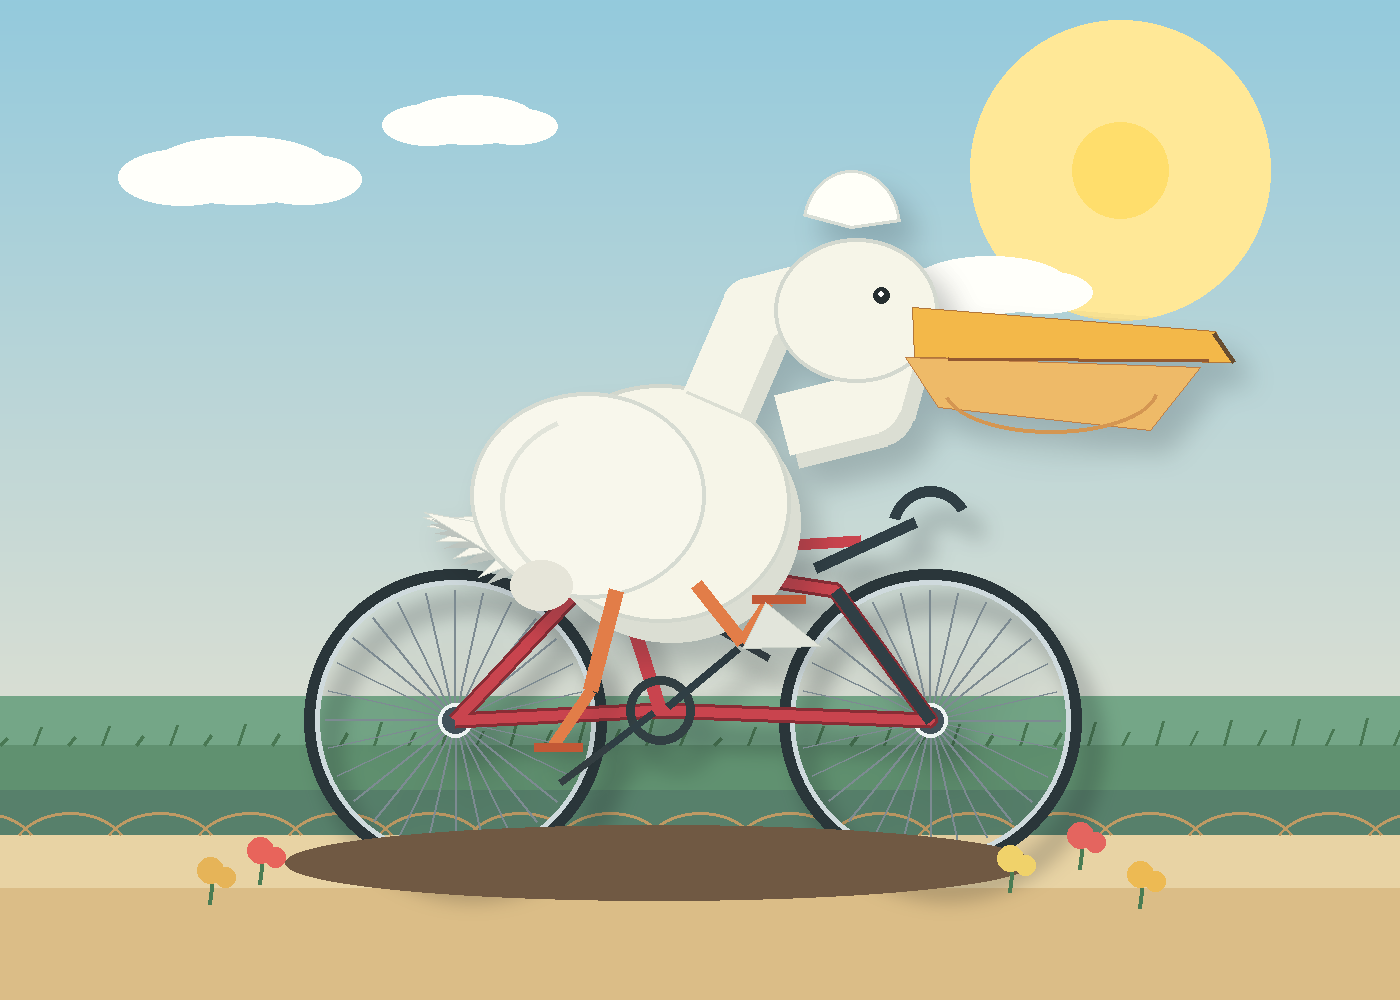
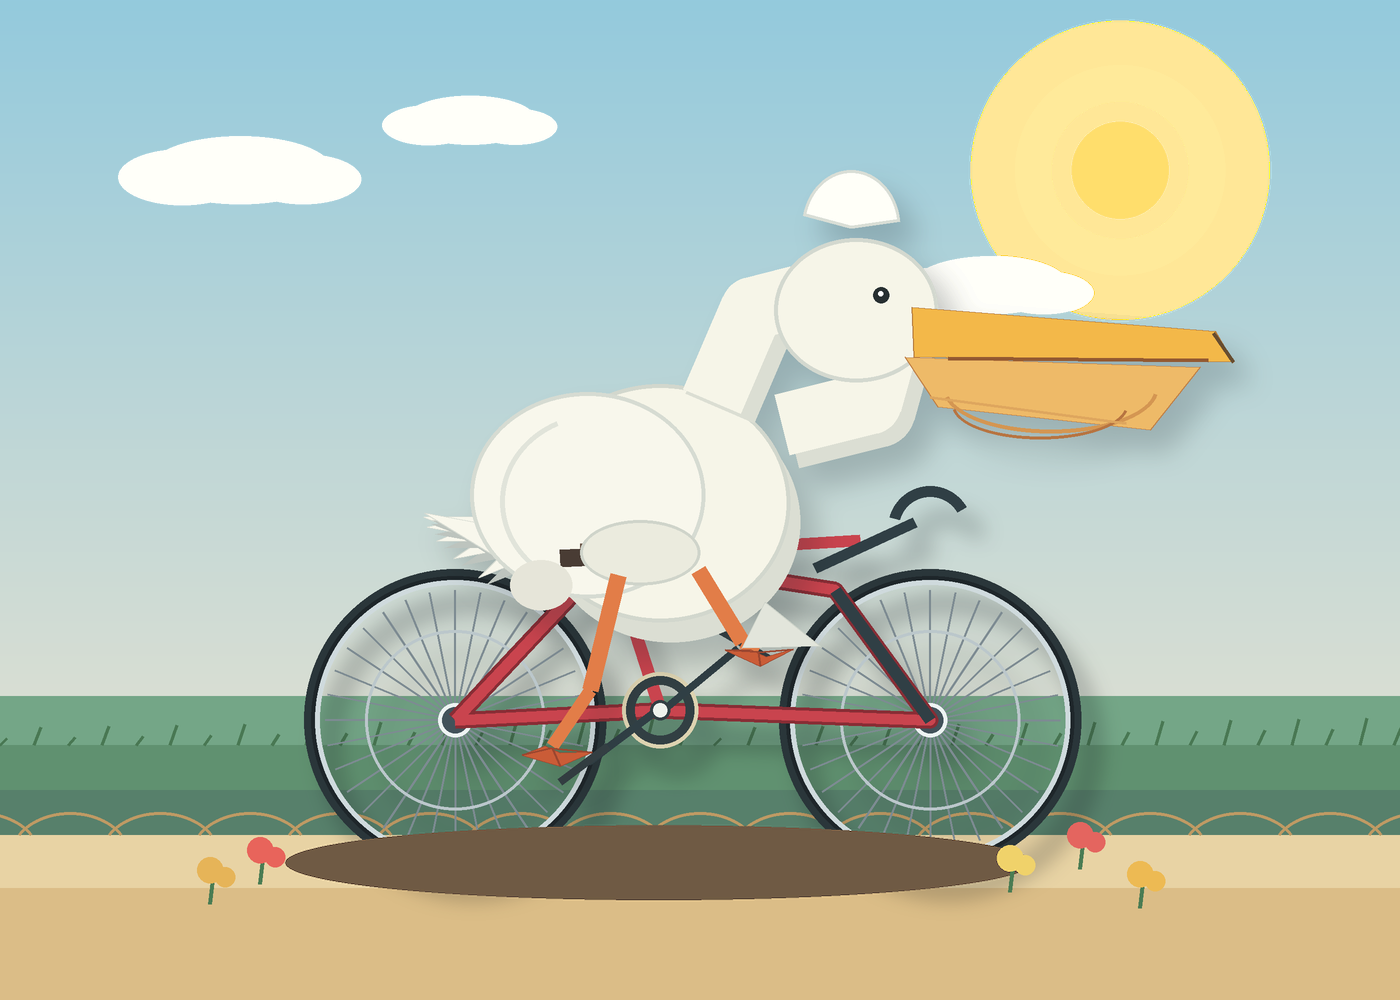
Polish pelican bike rendering

diff --git a/main.py b/main.py
@@ -2,13 +2,14 @@ from __future__ import annotations
 
 import math
 from pathlib import Path
-from typing import Iterable, Sequence
+from typing import Sequence
 
 from PIL import Image, ImageDraw, ImageFilter
 
 
 WIDTH = 1400
 HEIGHT = 1000
+SUPERSAMPLE = 2
 OUTPUT_PATH = Path("output/pelican_bike.png")
 
 
@@ -16,21 +17,110 @@ Color = tuple[int, int, int] | tuple[int, int, int, int]
 Point = tuple[float, float]
 
 
+class ScaledDraw:
+    """Tiny adapter that keeps drawing code in design pixels while rendering larger."""
+
+    def __init__(self, draw: ImageDraw.ImageDraw, scale: int) -> None:
+        self.draw = draw
+        self.scale = scale
+
+    def _n(self, value: float) -> int:
+        return int(round(value * self.scale))
+
+    def _xy(self, xy: Sequence[float] | Sequence[Point]) -> tuple[int, ...] | list[tuple[int, int]]:
+        if xy and isinstance(xy[0], (tuple, list)):  # type: ignore[index]
+            return [(self._n(x), self._n(y)) for x, y in xy]  # type: ignore[misc]
+        return tuple(self._n(value) for value in xy)  # type: ignore[arg-type]
+
+    def _width(self, width: int) -> int:
+        return max(1, self._n(width))
+
+    def line(
+        self,
+        xy: Sequence[float] | Sequence[Point],
+        fill: Color,
+        width: int = 1,
+        joint: str | None = None,
+    ) -> None:
+        kwargs = {"fill": fill, "width": self._width(width)}
+        if joint is not None:
+            kwargs["joint"] = joint
+        self.draw.line(self._xy(xy), **kwargs)
+
+    def ellipse(
+        self,
+        xy: Sequence[float],
+        fill: Color | None = None,
+        outline: Color | None = None,
+        width: int = 1,
+    ) -> None:
+        self.draw.ellipse(self._xy(xy), fill=fill, outline=outline, width=self._width(width))
+
+    def rectangle(
+        self,
+        xy: Sequence[float],
+        fill: Color | None = None,
+        outline: Color | None = None,
+        width: int = 1,
+    ) -> None:
+        self.draw.rectangle(self._xy(xy), fill=fill, outline=outline, width=self._width(width))
+
+    def polygon(
+        self,
+        xy: Sequence[Point],
+        fill: Color | None = None,
+        outline: Color | None = None,
+        width: int = 1,
+    ) -> None:
+        points = self._xy(xy)
+        self.draw.polygon(points, fill=fill)
+        if outline is not None:
+            self.draw.line([*points, points[0]], fill=outline, width=self._width(width), joint="curve")
+
+    def arc(
+        self,
+        xy: Sequence[float],
+        start: float,
+        end: float,
+        fill: Color,
+        width: int = 1,
+    ) -> None:
+        self.draw.arc(self._xy(xy), start, end, fill=fill, width=self._width(width))
+
+    def pieslice(
+        self,
+        xy: Sequence[float],
+        start: float,
+        end: float,
+        fill: Color | None = None,
+        outline: Color | None = None,
+        width: int = 1,
+    ) -> None:
+        self.draw.pieslice(self._xy(xy), start, end, fill=fill, outline=outline, width=self._width(width))
+
+
 def ellipse_bbox(cx: float, cy: float, rx: float, ry: float) -> tuple[float, float, float, float]:
     return (cx - rx, cy - ry, cx + rx, cy + ry)
 
 
-def add_shadow(base: Image.Image, shape: Image.Image, blur: int, offset: tuple[int, int], opacity: int) -> None:
-    alpha = shape.getchannel("A").filter(ImageFilter.GaussianBlur(blur))
+def add_shadow(
+    base: Image.Image,
+    shape: Image.Image,
+    blur: int,
+    offset: tuple[int, int],
+    opacity: int,
+    scale: int,
+) -> None:
+    alpha = shape.getchannel("A").filter(ImageFilter.GaussianBlur(blur * scale))
     shadow = Image.new("RGBA", base.size, (31, 40, 46, opacity))
     shifted = Image.new("RGBA", base.size, (0, 0, 0, 0))
-    shifted.paste(shadow, offset, alpha)
+    shifted.paste(shadow, (offset[0] * scale, offset[1] * scale), alpha)
     base.alpha_composite(shifted)
     base.alpha_composite(shape)
 
 
 def draw_polyline(
-    draw: ImageDraw.ImageDraw,
+    draw: ScaledDraw,
     points: Sequence[Point],
     fill: Color,
     width: int,
@@ -39,7 +129,7 @@ def draw_polyline(
     draw.line(points, fill=fill, width=width, joint=joint)
 
 
-def draw_spokes(draw: ImageDraw.ImageDraw, center: Point, radius: int, count: int = 28) -> None:
+def draw_spokes(draw: ScaledDraw, center: Point, radius: int, count: int = 32) -> None:
     cx, cy = center
     for i in range(count):
         angle = (math.tau / count) * i
@@ -48,15 +138,17 @@ def draw_spokes(draw: ImageDraw.ImageDraw, center: Point, radius: int, count: in
         draw.line((cx, cy, x, y), fill=(125, 139, 146), width=2)
 
 
-def draw_wheel(draw: ImageDraw.ImageDraw, center: Point, radius: int) -> None:
+def draw_wheel(draw: ScaledDraw, center: Point, radius: int) -> None:
     cx, cy = center
     draw.ellipse(ellipse_bbox(cx, cy, radius + 9, radius + 9), outline=(42, 54, 58), width=16)
+    draw.ellipse(ellipse_bbox(cx, cy, radius + 2, radius + 2), outline=(30, 38, 42), width=4)
     draw.ellipse(ellipse_bbox(cx, cy, radius - 2, radius - 2), outline=(207, 218, 221), width=5)
     draw_spokes(draw, center, radius - 12)
+    draw.ellipse(ellipse_bbox(cx, cy, radius - 52, radius - 52), outline=(187, 199, 203), width=3)
     draw.ellipse(ellipse_bbox(cx, cy, 17, 17), fill=(66, 82, 90), outline=(237, 243, 242), width=4)
 
 
-def draw_background(draw: ImageDraw.ImageDraw) -> None:
+def draw_background(draw: ScaledDraw) -> None:
     for y in range(HEIGHT):
         t = y / HEIGHT
         r = int(148 + (246 - 148) * t)
@@ -88,7 +180,7 @@ def draw_background(draw: ImageDraw.ImageDraw) -> None:
         draw.line((x, 745, x + 7, 745 - h), fill=(73, 120, 83), width=3)
 
 
-def draw_bicycle(draw: ImageDraw.ImageDraw) -> None:
+def draw_bicycle(draw: ScaledDraw) -> None:
     rear = (455, 720)
     front = (930, 720)
     crank = (660, 710)
@@ -107,18 +199,21 @@ def draw_bicycle(draw: ImageDraw.ImageDraw) -> None:
     draw_polyline(draw, (rear, crank, front, fork_top, seat, rear), frame, 11)
     draw_polyline(draw, (seat, crank), frame, 13)
     draw_polyline(draw, (seat, handle), frame, 12)
-    draw.line((fork_top, front[0], front[1]), fill=metal, width=12)
+    draw.line((*fork_top, *front), fill=metal, width=12)
     draw.line((fork_top[0] - 20, fork_top[1] - 22, handle[0] + 55, handle[1] - 18), fill=metal, width=11)
     draw.arc((handle[0] + 28, handle[1] - 54, handle[0] + 112, handle[1] + 30), 195, 330, fill=metal, width=11)
 
-    draw.line((seat[0] - 42, seat[1] - 14, seat[0] + 50, seat[1] - 18), fill=(73, 60, 52), width=17)
+    draw.line((seat[0] - 46, seat[1] - 18, seat[0] + 56, seat[1] - 22), fill=(73, 60, 52), width=22)
+    draw.line((seat[0] - 31, seat[1] - 26, seat[0] + 45, seat[1] - 28), fill=(98, 81, 69), width=9)
     draw.line((seat[0] - 5, seat[1] - 12, seat[0], seat[1] + 44), fill=metal, width=9)
 
+    draw.ellipse(ellipse_bbox(crank[0], crank[1], 38, 38), outline=(221, 211, 177), width=5)
     draw.ellipse(ellipse_bbox(crank[0], crank[1], 34, 34), outline=(50, 63, 67), width=9)
     draw.line((crank[0] - 7, crank[1] + 3, crank[0] - 72, crank[1] + 52), fill=metal, width=8)
     draw.line((crank[0] + 8, crank[1] - 4, crank[0] + 78, crank[1] - 62), fill=metal, width=8)
     draw.line((crank[0] - 100, crank[1] + 72, crank[0] - 52, crank[1] + 36), fill=(54, 65, 69), width=8)
     draw.line((crank[0] + 56, crank[1] - 82, crank[0] + 108, crank[1] - 52), fill=(54, 65, 69), width=8)
+    draw.ellipse(ellipse_bbox(crank[0], crank[1], 10, 10), fill=(238, 242, 236), outline=(50, 63, 67), width=3)
 
 
 def feather_polygon(cx: float, cy: float, angle: float, length: float, width: float) -> list[Point]:
@@ -128,7 +223,7 @@ def feather_polygon(cx: float, cy: float, angle: float, length: float, width: fl
     return [left, tip, right]
 
 
-def draw_wing(draw: ImageDraw.ImageDraw) -> None:
+def draw_wing(draw: ScaledDraw) -> None:
     wing_shadow = (189, 196, 190)
     wing = (248, 247, 236)
     edge = (214, 219, 210)
@@ -145,7 +240,14 @@ def draw_wing(draw: ImageDraw.ImageDraw) -> None:
     draw.arc((500, 413, 695, 590), 120, 245, fill=(225, 228, 218), width=5)
 
 
-def draw_pelican(draw: ImageDraw.ImageDraw) -> None:
+def draw_webbed_foot(draw: ScaledDraw, ankle: Point, toes: Sequence[Point]) -> None:
+    foot = [(ankle[0] - 7, ankle[1]), *toes, (ankle[0] + 8, ankle[1] + 7)]
+    draw.polygon(foot, fill=(202, 92, 55), outline=(158, 72, 49))
+    for toe in toes:
+        draw.line((ankle[0], ankle[1] + 2, toe[0], toe[1]), fill=(155, 70, 47), width=2)
+
+
+def draw_pelican(draw: ScaledDraw) -> None:
     body = (246, 245, 232)
     body_shadow = (219, 222, 211)
     ink = (39, 47, 49)
@@ -157,12 +259,15 @@ def draw_pelican(draw: ImageDraw.ImageDraw) -> None:
     draw.ellipse((530, 384, 790, 622), fill=body, outline=(210, 215, 205), width=4)
     draw_wing(draw)
 
-    draw.line((616, 590, 590, 690), fill=leg, width=15)
-    draw.line((696, 584, 742, 642), fill=leg, width=15)
-    draw.line((590, 690, 552, 746), fill=leg, width=12)
-    draw.line((742, 642, 768, 602), fill=leg, width=12)
-    draw.line((534, 747, 582, 747), fill=(194, 88, 54), width=9)
-    draw.line((752, 599, 805, 599), fill=(194, 88, 54), width=9)
+    draw.line((560, 558, 666, 553), fill=(73, 60, 52), width=18)
+    draw.line((580, 546, 650, 543), fill=(106, 86, 72), width=6)
+    draw.ellipse((580, 520, 700, 585), fill=(235, 235, 222), outline=(207, 212, 202), width=3)
+    draw.line((618, 575, 590, 690), fill=leg, width=16)
+    draw.line((698, 570, 742, 642), fill=leg, width=16)
+    draw.line((590, 690, 552, 746), fill=leg, width=13)
+    draw.line((742, 642, 758, 650), fill=leg, width=13)
+    draw_webbed_foot(draw, (552, 746), [(522, 755), (560, 766), (592, 752)])
+    draw_webbed_foot(draw, (758, 650), [(725, 650), (760, 666), (793, 649)])
 
     neck_points = [(720, 408), (760, 315), (838, 295), (898, 338), (878, 410), (790, 432)]
     draw.line(neck_points, fill=body_shadow, width=75, joint="curve")
@@ -180,12 +285,14 @@ def draw_pelican(draw: ImageDraw.ImageDraw) -> None:
     draw.line((948, 358, 1208, 360), fill=(147, 89, 49), width=4)
     draw.line((1213, 333, 1233, 362), fill=(103, 77, 48), width=4)
     draw.arc((943, 344, 1158, 433), 8, 168, fill=(212, 150, 82), width=4)
+    draw.arc((952, 371, 1128, 439), 10, 172, fill=(183, 116, 65), width=3)
+    draw.line((930, 397, 1126, 423), fill=(222, 166, 94), width=3)
 
     draw.ellipse((510, 560, 572, 610), fill=(230, 229, 217))
     draw.polygon([(765, 602), (820, 646), (742, 648)], fill=(226, 229, 219), outline=(205, 211, 201))
 
 
-def draw_foreground(draw: ImageDraw.ImageDraw) -> None:
+def draw_foreground(draw: ScaledDraw) -> None:
     draw.ellipse((285, 825, 1032, 900), fill=(112, 89, 67, 82))
     for x, y, color in [
         (210, 870, (230, 180, 88)),
@@ -200,20 +307,23 @@ def draw_foreground(draw: ImageDraw.ImageDraw) -> None:
 
 
 def render() -> Image.Image:
-    image = Image.new("RGBA", (WIDTH, HEIGHT), (255, 255, 255, 255))
-    draw = ImageDraw.Draw(image, "RGBA")
+    scale = SUPERSAMPLE
+    render_size = (WIDTH * scale, HEIGHT * scale)
+    image = Image.new("RGBA", render_size, (255, 255, 255, 255))
+    draw = ScaledDraw(ImageDraw.Draw(image, "RGBA"), scale)
     draw_background(draw)
 
     bicycle_layer = Image.new("RGBA", image.size, (0, 0, 0, 0))
-    draw_bicycle(ImageDraw.Draw(bicycle_layer, "RGBA"))
-    add_shadow(image, bicycle_layer, blur=10, offset=(18, 26), opacity=80)
+    draw_bicycle(ScaledDraw(ImageDraw.Draw(bicycle_layer, "RGBA"), scale))
+    add_shadow(image, bicycle_layer, blur=10, offset=(18, 26), opacity=80, scale=scale)
 
     bird_layer = Image.new("RGBA", image.size, (0, 0, 0, 0))
-    draw_pelican(ImageDraw.Draw(bird_layer, "RGBA"))
-    add_shadow(image, bird_layer, blur=13, offset=(16, 21), opacity=54)
+    draw_pelican(ScaledDraw(ImageDraw.Draw(bird_layer, "RGBA"), scale))
+    add_shadow(image, bird_layer, blur=13, offset=(16, 21), opacity=54, scale=scale)
 
-    draw_foreground(ImageDraw.Draw(image, "RGBA"))
-    return image.convert("RGB")
+    draw_foreground(ScaledDraw(ImageDraw.Draw(image, "RGBA"), scale))
+    resampling = getattr(Image, "Resampling", Image).LANCZOS
+    return image.resize((WIDTH, HEIGHT), resampling).convert("RGB")
 
 
 def main() -> None:

diff --git a/README.md b/README.md
@@ -1,6 +1,6 @@
 # Pelican Bike Art
 
-A self-contained Python/Pillow art project that generates a polished PNG of a pelican riding a bicycle.
+A self-contained Python/Pillow art project that generates a polished PNG of a pelican riding a bicycle. The scene is drawn procedurally with a visible saddle, pedals, webbed feet, and a recognizable pelican beak and pouch.
 
 ## Setup
 
@@ -25,5 +25,6 @@ output/pelican_bike.png
 ## Notes
 
 - Uses only Pillow for rendering.
+- Renders at 2x resolution, then downsamples with Lanczos antialiasing for smoother edges.
 - The generated image is deterministic.
 - Canvas size defaults to `1400x1000`.